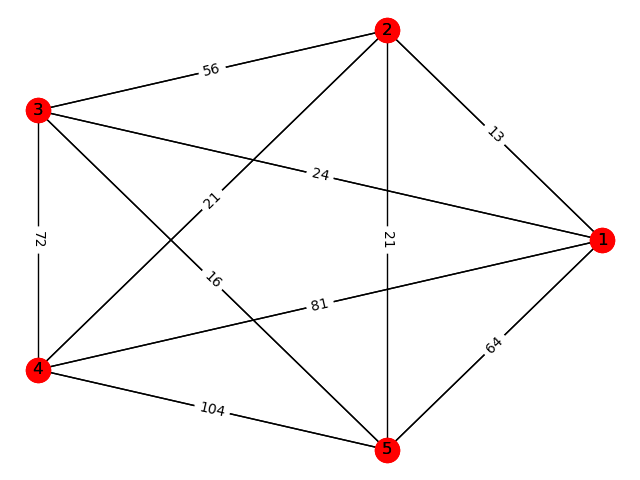
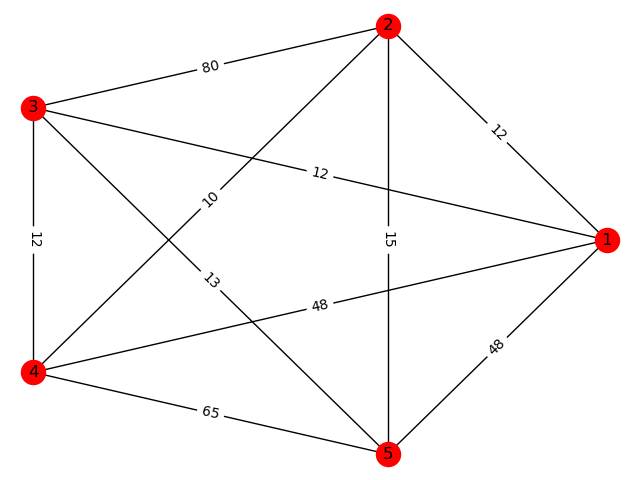
complete graph

diff --git a/tb.py b/tb.py
@@ -1,50 +1,74 @@
+import matplotlib
+
 from tkinter import *
+#from PIL import ImageTk, Image
 from matplotlib import pyplot as plt
 import networkx as nx
-import math
-import random as rd 
-master =Tk()
-Label(master,text="Enter no of nodes: ").grid(row=0)
+#import math
+import random as rd
+matplotlib.use('Agg')
+master = Tk()
+Label(master, text="Enter no of nodes: ").grid(row=0)
+e4 = Entry(master)
 
-e4=Entry(master)
-
-e4.grid(row=0,column=1)
+e4.grid(row=0, column=1)
 
 
 def draw_graph():
-    
-    G=nx.fast_gnp_random_graph(int(e4.get()),0.6)
+    G = nx.fast_gnp_random_graph(int(e4.get()), 0.6)
 
     nx.draw_shell(G)
     plt.show()
 
 
 def draw_graph2():
-    n=int(e4.get())
-    G=nx.Graph()
-    for i in range(0,n):
-        G.add_node(i+1)
-#G=nx.complete_graph(n)
-#G.remove_edges_from(G.edges())
-    for i in range(0,n):
-        for j in range(i+1,n):
-            e1=rd.random()
-            e2=rd.random()
-            e3=rd.random()
-            e=(int(e1*10)+int(e2*10))*(int(e3*10))
-            if e!=0:
-                G.add_weighted_edges_from([(i+1,j+1,e)])
-#G.add_weighted_edges_from([(1,2,10),(1,3,14),(1,5,18),(2,3,7),(3,4,3),(3,5,11),(4,5,8)])
+    n = int(e4.get())
+    G = nx.Graph()
+    for i in range(0, n):
+        G.add_node(i + 1)
+    # G=nx.complete_graph(n)
+    # G.remove_edges_from(G.edges())
+    for i in range(0, n):
+        for j in range(i + 1, n):
+            e1 = rd.random()
+            e2 = rd.random()
+            e3 = rd.random()
+            e = (int(e1 * 10) + int(e2 * 10)) * (int(e3 * 10))
+            e0 = (int(e1*10)+int(e2*10))
+            if e != 0:
+                G.add_weighted_edges_from([(i + 1, j + 1, e)])
+            else:
+                G.add_weighted_edges_from([(i + 1, j + 1, e0)])
+    # G.add_weighted_edges_from([(1,2,10),(1,3,14),(1,5,18),(2,3,7),(3,4,3),(3,5,11),(4,5,8)])
     pos = nx.circular_layout(G)
-    nx.draw(G,pos, with_labels=True)
-    labels = nx.get_edge_attributes(G,'weight')
-    nx.draw_networkx_edge_labels(G,pos,edge_labels=labels)
+    nx.draw(G, pos, with_labels=True)
+    labels = nx.get_edge_attributes(G, 'weight')
+    nx.draw_networkx_edge_labels(G, pos, edge_labels=labels)
+
     plt.draw()
+    plt.savefig('myfig')
+
+
+
+    widget = Label(master, compound='top')
+    widget.image_png = PhotoImage(file="myfig.png")
+    widget['image'] = widget.image_png
+
+
+    widget.grid()
+
+
+    #panel = Label(master, image=img)
+   # panel.pack(side="bottom", fill="both", expand="yes")
+
     plt.show()
 
 
-Button(master,text="Quit",command=quit).grid(row=3,column=0,sticky=W,pady=4)
-Button(master,text="Draw",command=draw_graph2).grid(row=3,column=1,sticky=W,pady=4)
-Button(master,text="Draw2",command=draw_graph).grid(row=3,column=2,sticky=W,pady=4)
+
+
+
+Button(master, text="Quit", command=quit).grid(row=3, column=0, sticky=W, pady=4)
+Button(master, text="Draw", command=draw_graph2).grid(row=3, column=1, sticky=W, pady=4)
+#Button(master, text="Draw2", command=draw_graph).grid(row=3, column=2, sticky=W, pady=4)
 
 mainloop()
